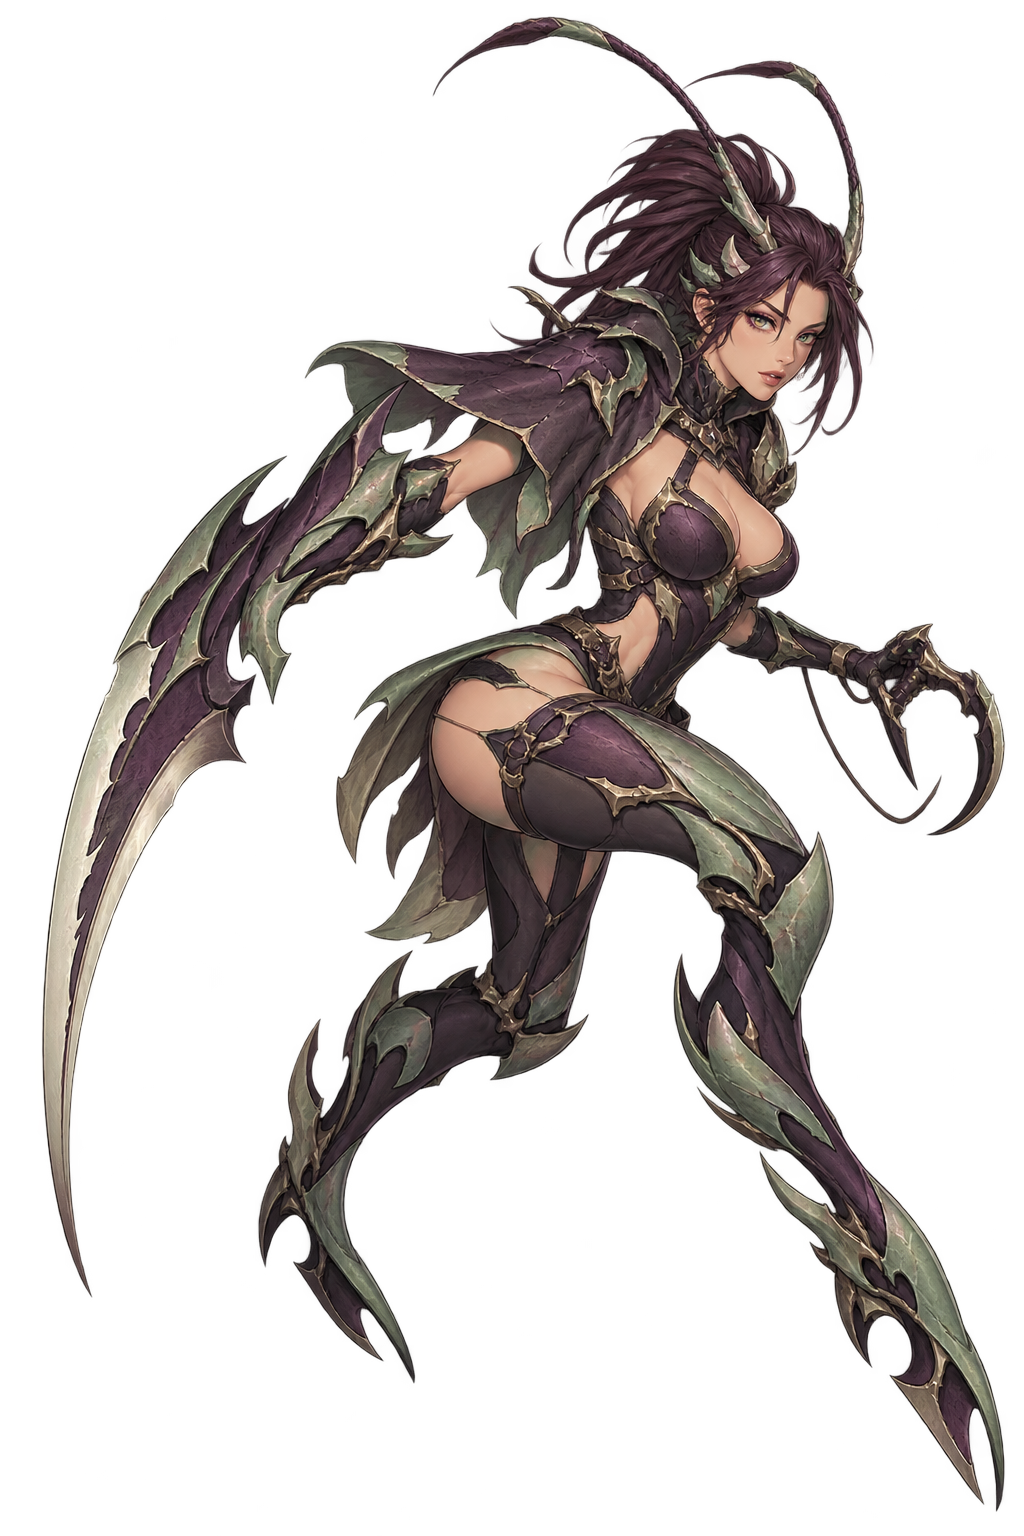
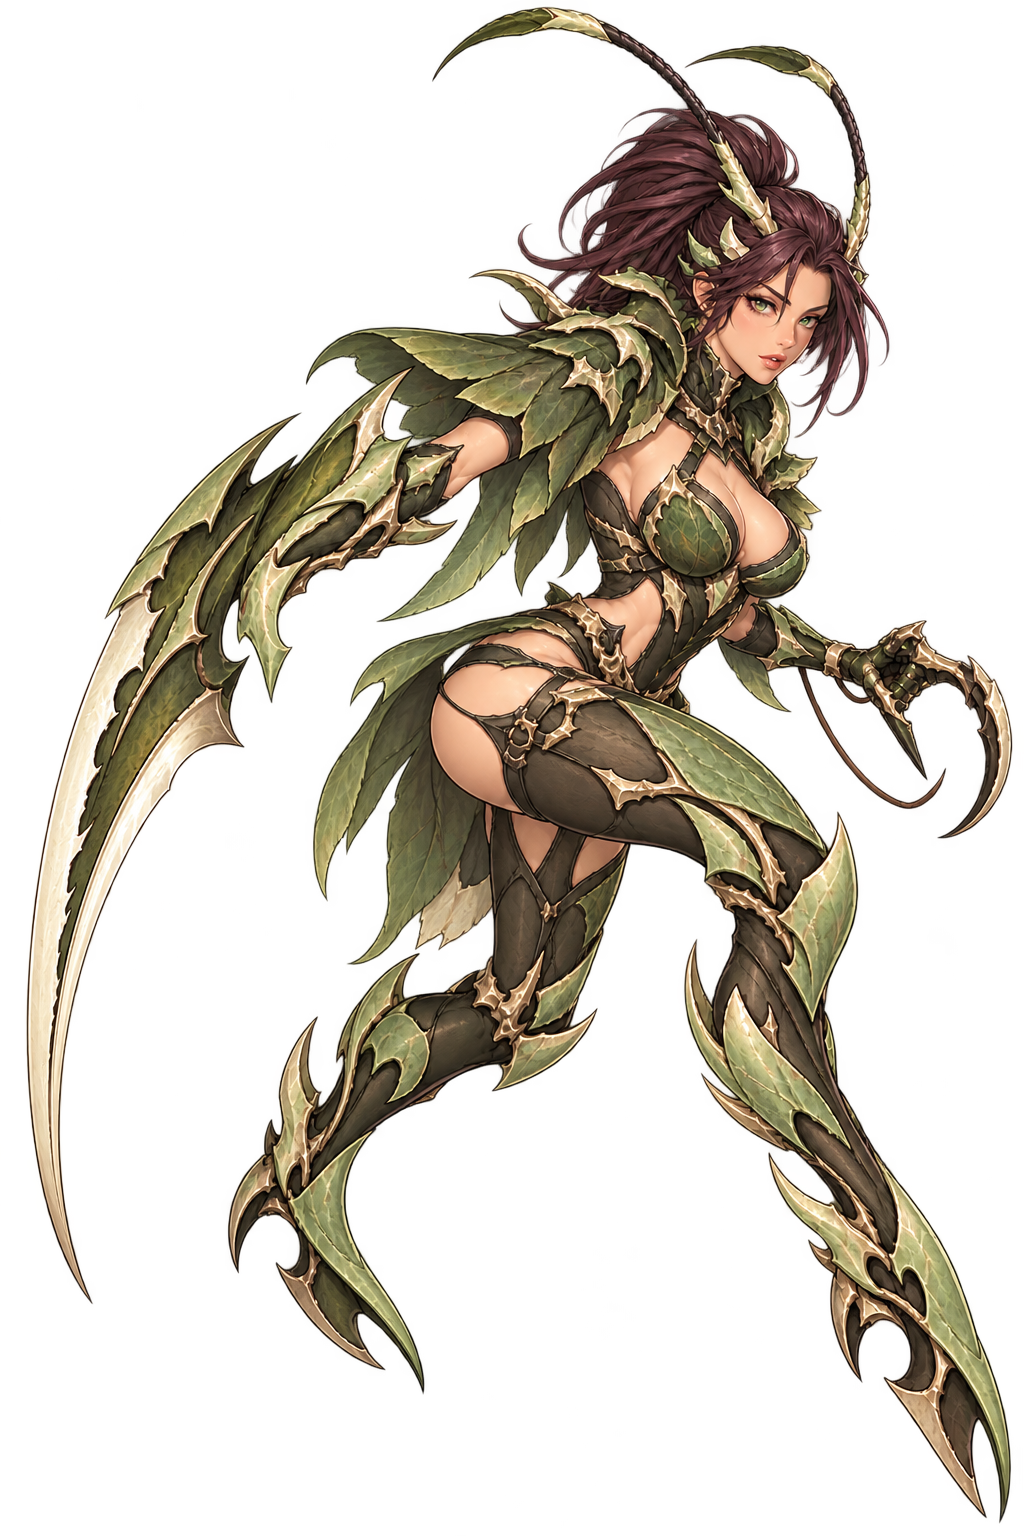
Revise faction palettes and character silhouettes

Changed region(s): [[0.0, 0.0, 1.0, 1.0]]

diff --git a/FACTION_ART_REVISIONS.md b/FACTION_ART_REVISIONS.md
@@ -1,0 +1,9 @@
+# Faction artwork revisions
+
+24 character illustrations revised from approved previews. Existing texture paths, animations, stats and abilities are preserved. Six retained designs: Veyra, Melora, Brontis, Lunara, Noctren and Solvyr.
+
+Faction palettes: Vesper gold/black/amber; Anttalope sage/olive/bone; Caraphex cobalt/graphite with iridescence; Scolyra plum/charcoal with venom green; Formicara oxblood/black/ivory. Lepidra retains varied wing colors and moon-silver details. Myraxa has a new silver-haired commander design, straight tabard and structured collar distinct from Karnyx.
+
+Revised using built-in image generation with each previous illustration as the identity reference. Prompts specified individual armor, silhouette and faction palette changes while retaining recognizable equipment.
+
+Test all characters in Scene/AllCharactersAnimationPreview.tscn with F6, or play with F5. Whole-sprite animation remains the current animation method.
